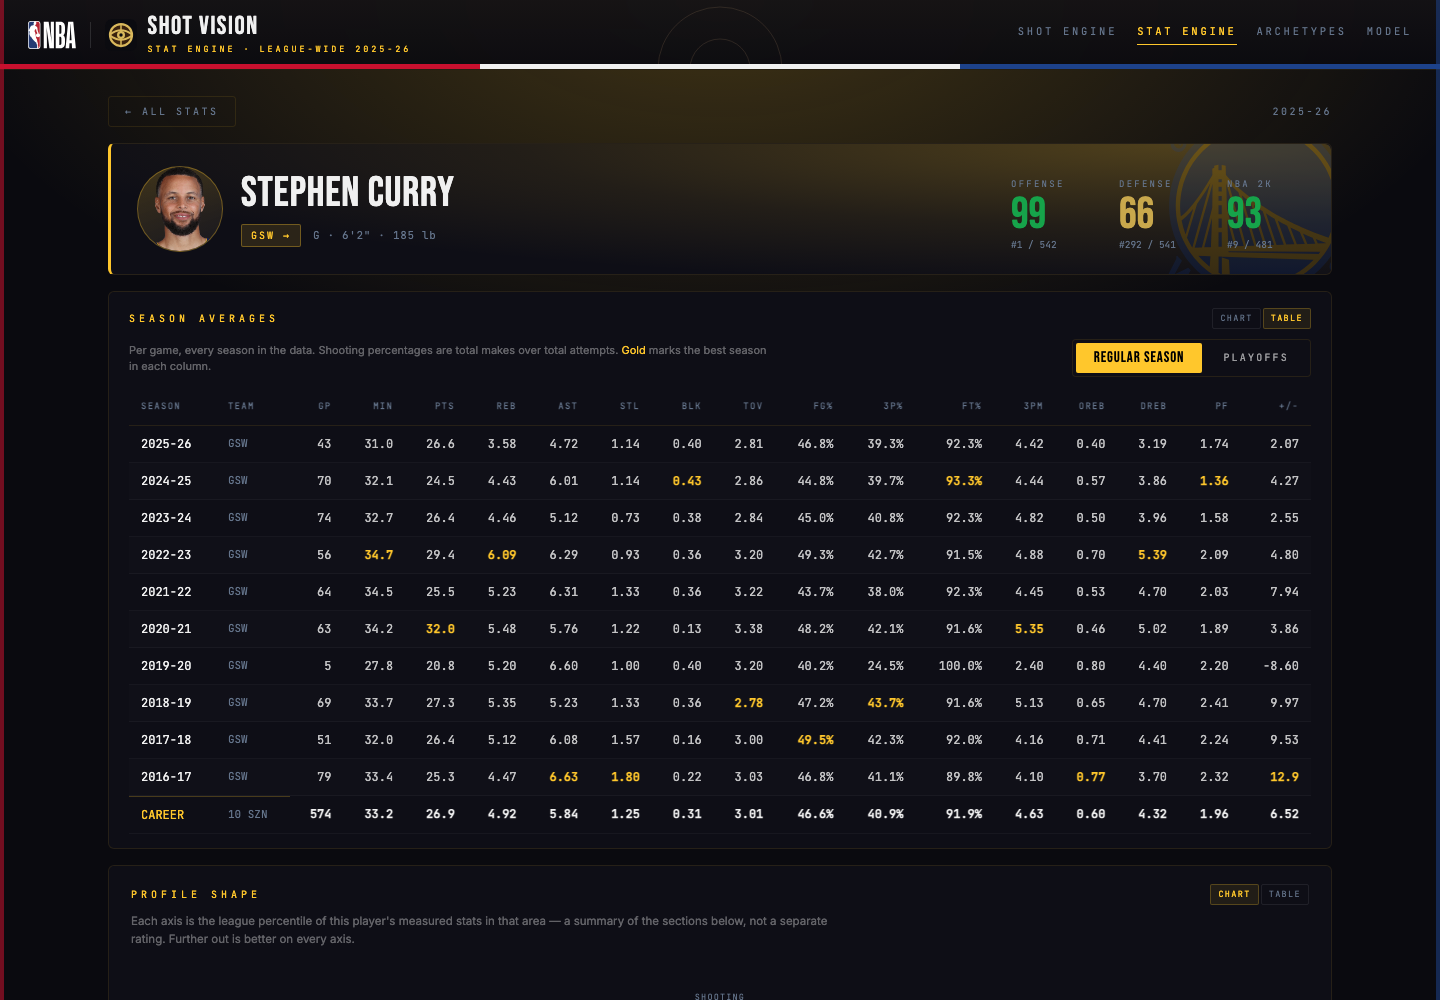
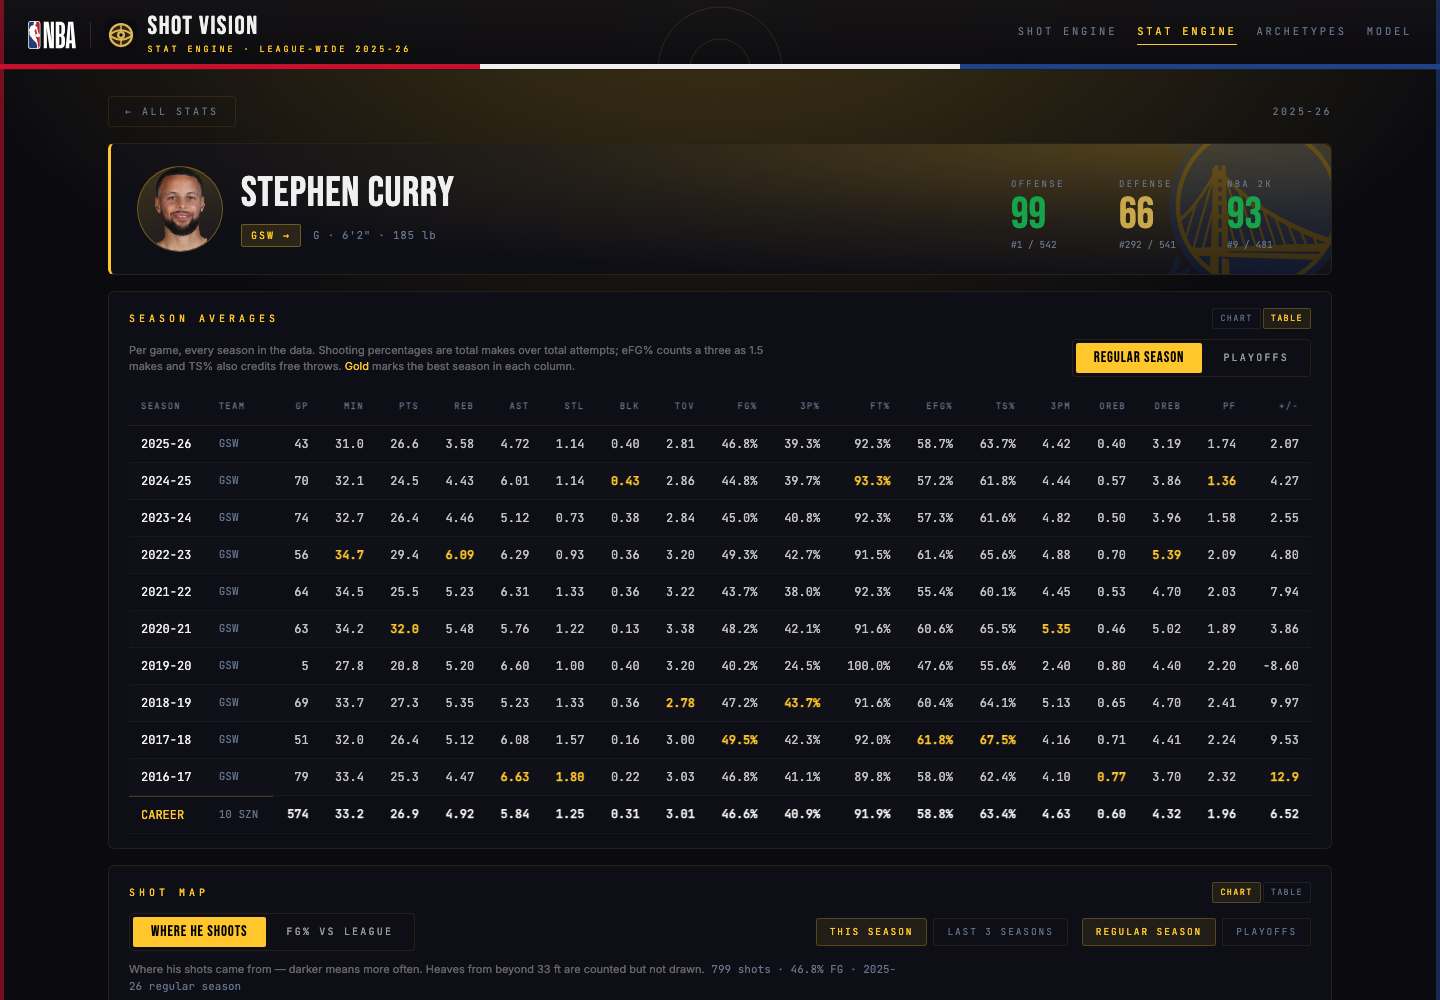
docs: README for the basic/advanced profiles, shot maps and official advanced stats
New screenshots of the profile's basic view, a shot map, and the advanced
view's shot-map gallery; the hot-zone reliability finding added to
"What was actually hard here".

diff --git a/README.md b/README.md
@@ -59,23 +59,36 @@ against the league and colour-coded by tier.
 
 ![Stat Engine](docs/screenshots/04-stat-engine.png)
 
-Profiles carry **season-by-season averages** of the major stats: regular season
-and playoffs separately, a career line, and each column's best season picked out.
-Shooting percentages are total makes over total attempts, so they match the NBA's
-own numbers.
+A profile opens on the basics and keeps the rest one click away. **Basic**: the
+header, **season-by-season averages** (regular season and playoffs, a career line,
+each column's best season picked out, TS% and eFG% from season totals so they
+match the NBA's own numbers), a shot map, and the bio and rating cards.
 
 ![Player profile](docs/screenshots/05-player-profile.png)
 
-Team profiles add the opponents' line and the team's **league rank in every stat,
-every season**.
+The **shot map** draws every shot's real coordinates on the engine's hardwood
+court: where he shoots from, and how well in each zone against the league, for
+this season or the last three, regular season or playoffs.
+
+![Shot map](docs/screenshots/08-shot-map.png)
+
+**Advanced stats** opens the rest: the NBA's own advanced numbers (usage, true
+shooting, assist/rebound/turnover rates, on-court ratings, PIE) ranked against the
+league and season by season; more shot maps (by shot type, clutch time, the shots
+his defensive assignments took, and how his shot diet moved since last season);
+a radar of the player's shape, a strengths-and-weaknesses chart, career trend
+lines, play-type and defense-by-category charts, and every tracking stat.
+
+![More shot maps](docs/screenshots/09-shot-map-gallery.png)
+
+Team profiles follow the same split, with the team's shots and its opponents'
+on the shot map, and the team's **league rank in every stat, every season**.
 
 ![Team profile](docs/screenshots/06-team-profile.png)
 
-Also on player profiles: a radar of the player's shape across six areas, a
-strengths-and-weaknesses chart, career trend lines, shot charts by zone, play-type
-and defense-by-category charts, and a rule-based player archetype ("Two-Way Wing",
-"Rim Protector"…) with its definition one click away. Any two or three players
-can be compared side by side. Every chart has a table view.
+Players also get a rule-based archetype ("Two-Way Wing", "Rim Protector"…) with its
+definition one click away, and any two or three players can be compared side by
+side. Every chart has a table view.
 
 ## Shot archetypes
 
@@ -131,6 +144,15 @@ is in [`docs/model-versions.md`](docs/model-versions.md).
   offense; strip him out and his actual teammates rank near the top of the
   league. Every team-context feature subtracts the player's own contribution
   before it reaches the model.
+- **The obvious hot-zone map is mostly noise.** Splitting each of 150 players'
+  seasons into random halves and drawing a spot-by-spot FG% map from each, the
+  halves agreed at a correlation of only 0.16-0.23 however the smoothing was tuned.
+  By zone it is 0.63 for a season and 0.79 over three, so the shot maps colour
+  efficiency by zone, shrunk toward the league by an empirical-Bayes prior fitted
+  per zone (the true spread between players is only 3-5.5 points of FG%). The
+  same test keeps the season-to-season change map honest: a spot is only
+  coloured past two standard errors, which a same-season split lights up on 3%
+  of the floor against 18% for real changes.
 - **An explanation is a claim, and claims can be wrong in ways a metric won't
   catch.** Reading generated output by hand — not just checking that a number
   moved — caught real bugs in the natural-language explanations: a player's own
@@ -185,6 +207,7 @@ python -c "from src.db.database import init_db; init_db()"
 # a full bootstrap across 10+ seasons takes several hours)
 python -m src.ingestion.bootstrap --full
 python -m src.ingestion.game_log_ingestor          # box scores, for season averages
+python -m src.ingestion.advanced_stats_ingestor    # the NBA's own advanced stats
 
 # Train both models
 python -m src.training.train --name shot-quality-v20
@@ -202,7 +225,7 @@ python scripts/refresh_season.py
 ```
 
 `./scripts/dev.sh` starts the FastAPI backend and the React frontend on fresh
-ports, wires them together, and prints the URLs. Tests: `pytest` (271 tests;
+ports, wires them together, and prints the URLs. Tests: `pytest` (287 tests;
 `pytest -m "not slow"` skips the ones that need trained models and the full
 database). See [`COMMANDS.md`](COMMANDS.md) for every ingestion step, ablation
 flag and evaluation tool.
